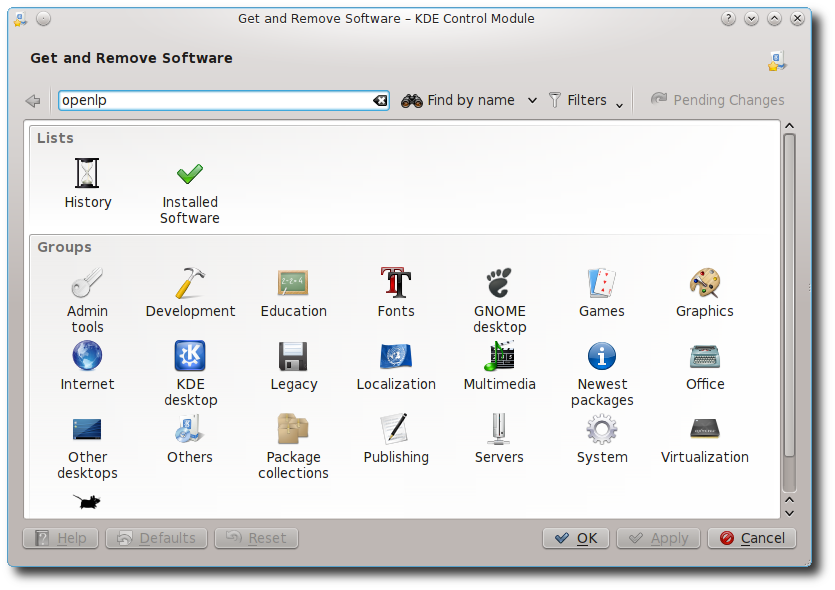
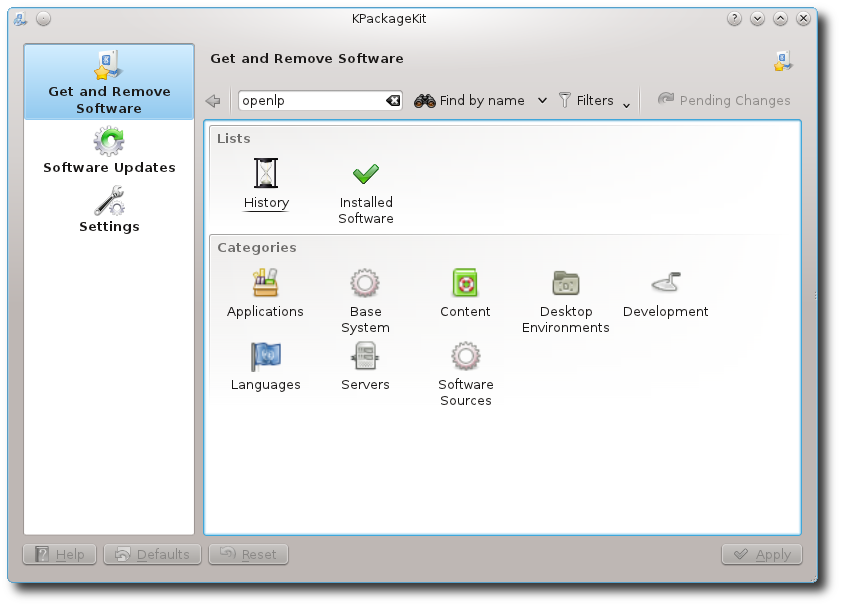
corrected and updated fedora kde install info

diff --git a/manual/source/installation.rst b/manual/source/installation.rst
@@ -184,7 +184,7 @@ Fedora (KDE)
 **Note** when installing OpenLP you will need to have administrator privileges.
 You will be asked for the administrator password to install.
 
-From the KickOff open *Get and Remove Software*. Type OpenLP into the search
+From the KickOff open *Software Management*. Type OpenLP into the search
 box. Then click :guilabel:`Find by name` or press :kbd:`Enter`.
 
 .. image:: pics/1fedoragetremove.png 
